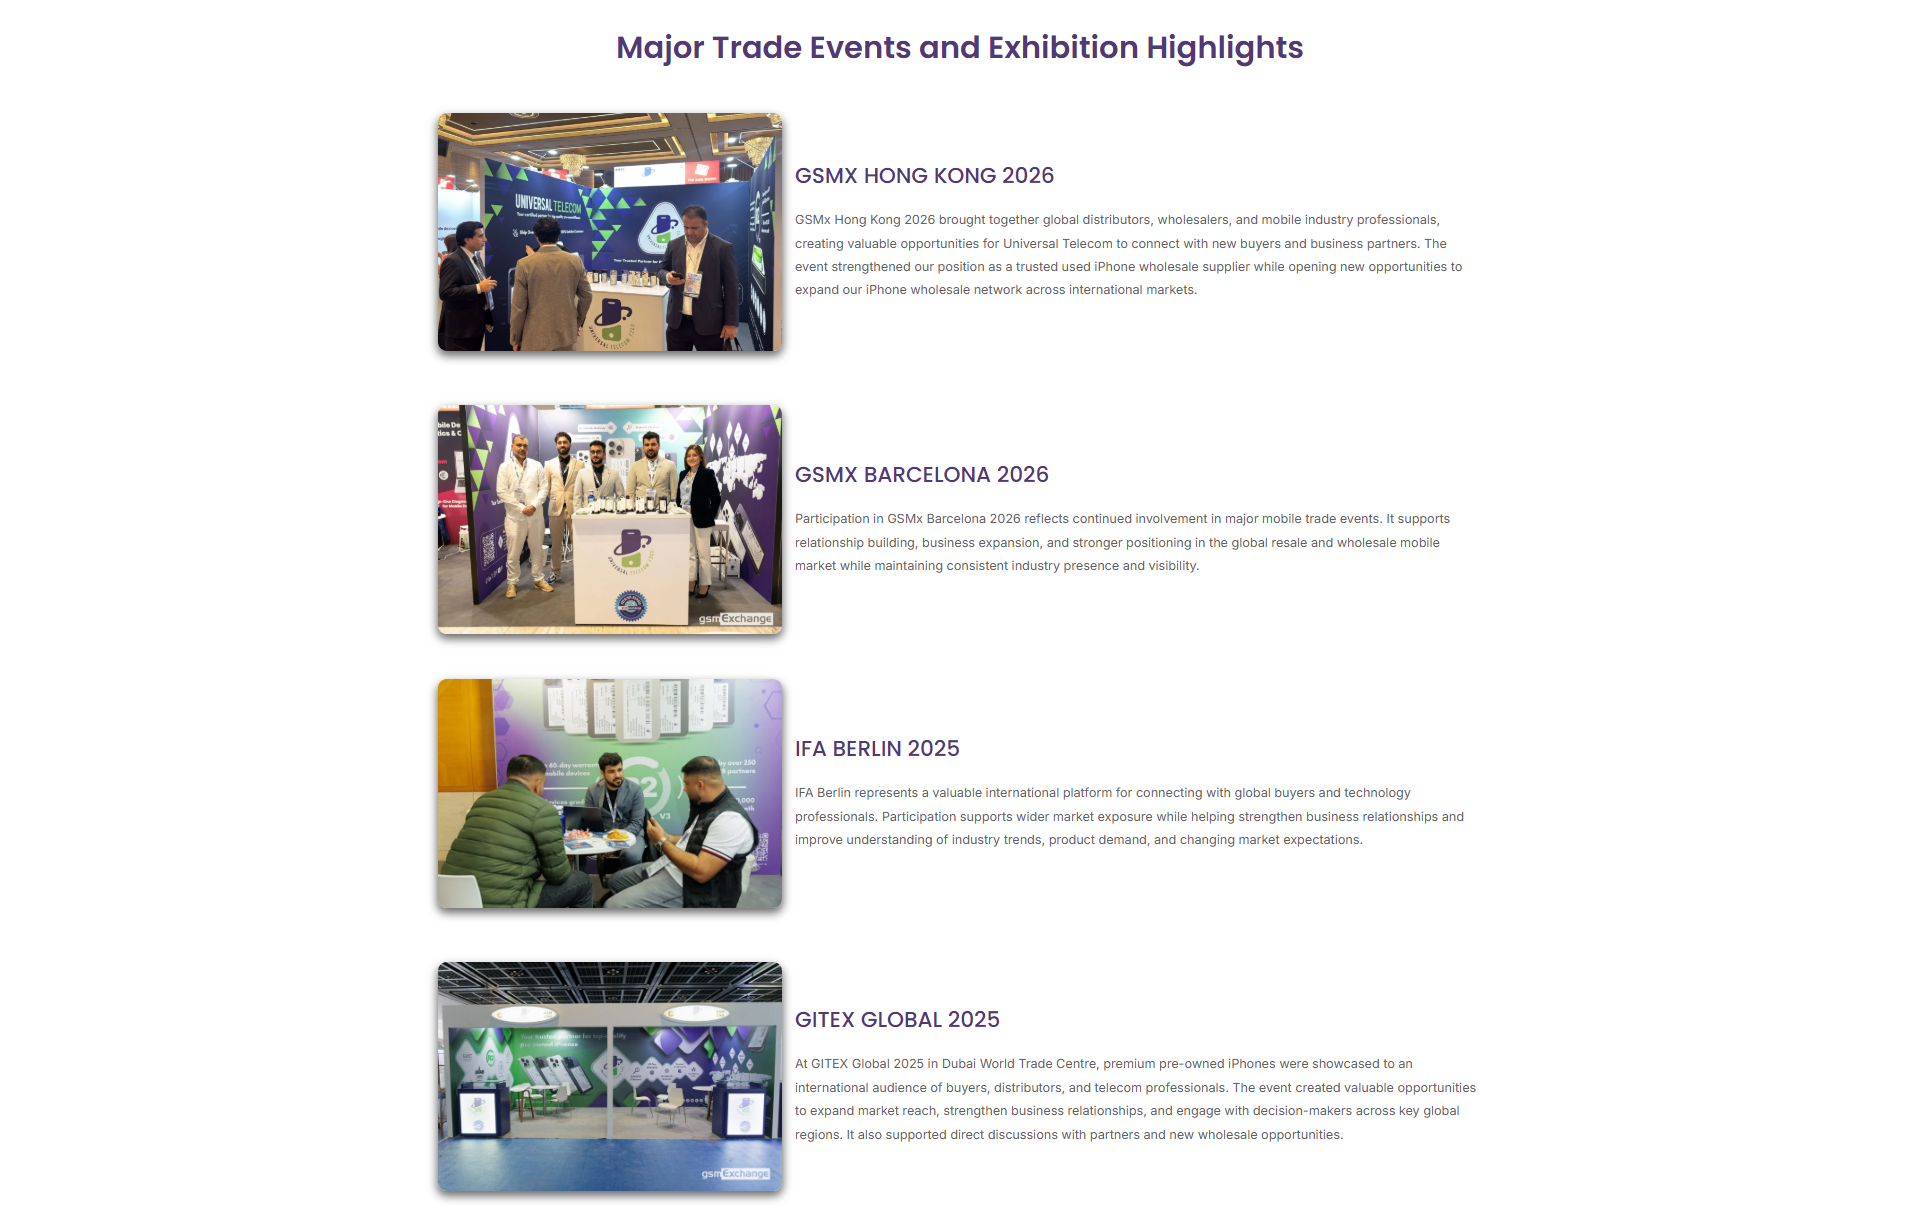
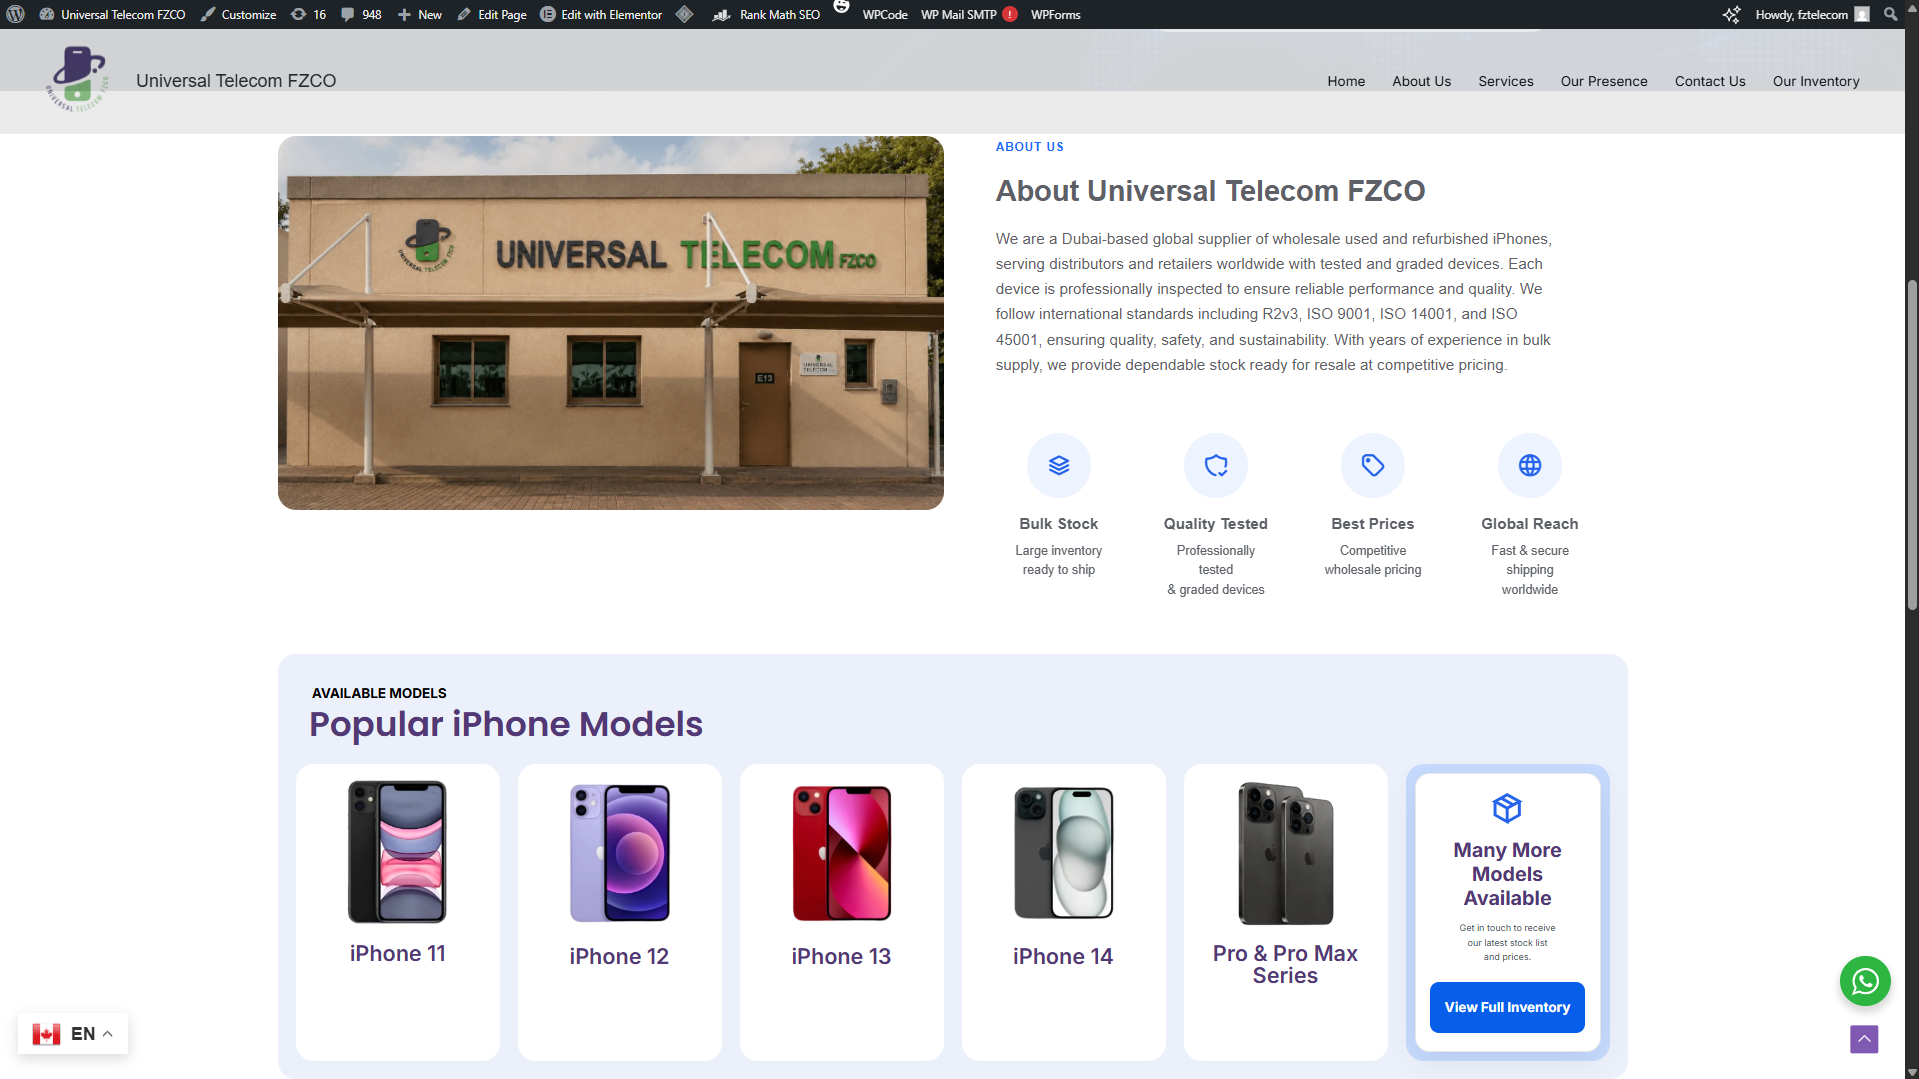
Update website

diff --git a/src/components/Work.jsx b/src/components/Work.jsx
@@ -1,3 +1,4 @@
+import { useState } from 'react'
 import { motion } from 'framer-motion'
 import { Link } from 'react-router-dom'
 
@@ -24,6 +25,10 @@ const works = featuredSlugs
 
 export default function Work(){
 
+  // Touch devices have no real :hover, so tapping a card toggles the
+  // same "revealed" look the mouse gets on desktop hover — tap once
+  // to show the overlay + zoom, tap again (or the link) to proceed.
+  const [activeIndex, setActiveIndex] = useState(null)
 
 return(
 
@@ -61,9 +66,13 @@ works.map((work,index)=>(
 
 <motion.article
 
-className="work-card"
+className={`work-card${activeIndex === index ? ' is-active' : ''}`}
 
 key={work.slug}
+
+onClick={() =>
+  setActiveIndex((current) => (current === index ? null : index))
+}
 
 initial={{
 opacity:0,
